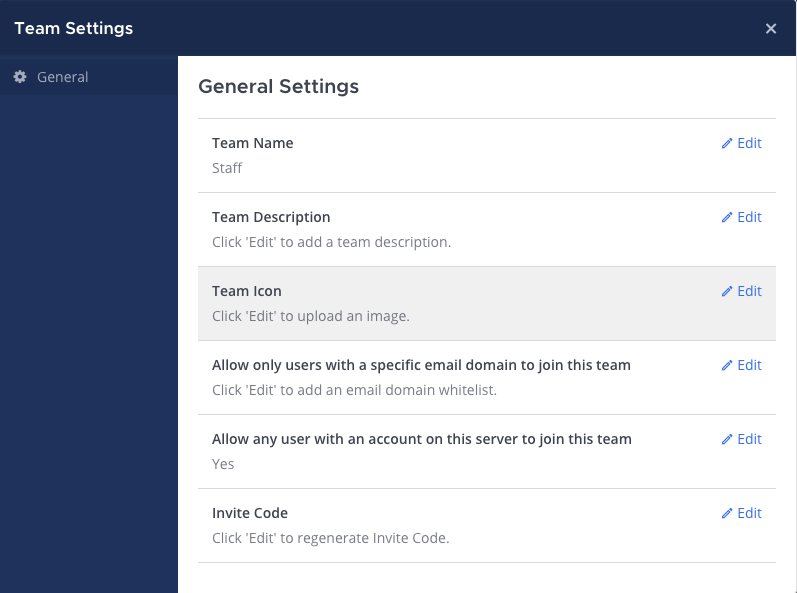
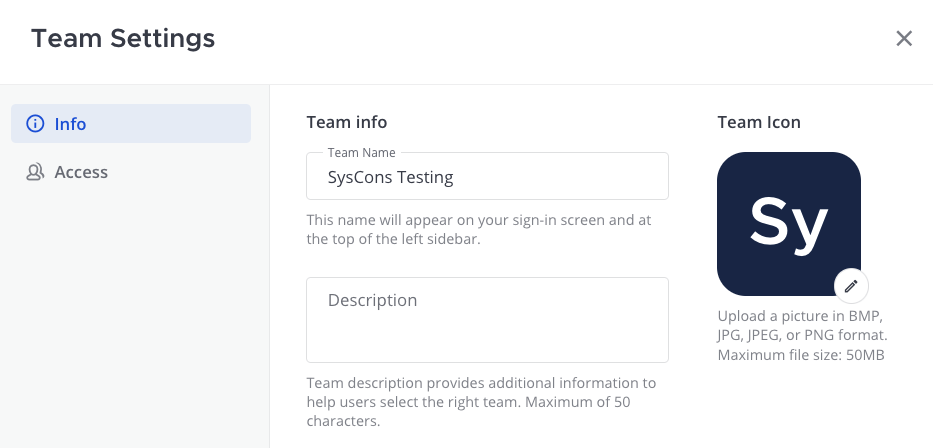
Aligned docs to latest product UI

diff --git a/source/collaborate/team-settings.rst b/source/collaborate/team-settings.rst
@@ -4,72 +4,90 @@ Team settings
 .. include:: ../_static/badges/allplans-cloud-selfhosted.rst
   :start-after: :nosearch:
 
-Team settings enable you to adjust settings applied to a specific team. Using Mattermost in a web browser or the desktop app, select the team name to access additional team options, including **Team Settings**. 
+.. |plus-icon| image:: ../images/plus_F0415.svg
+  :alt: Open menus using the plus icon.
+  :class: theme-icon
+
+Team settings enable system and team administrators to adjust settings applied to a specific team. Using Mattermost in a web browser or the desktop app, select the team name to access **Team Settings**.
 
 .. image:: ../images/team-settings.png
-    :alt: Access team settings from the team name. 
+  :alt: Access team settings from the team name. 
 
-General
--------
+Info settings
+-------------
 
-General settings provide options around how teams are displayed to users. 
+Info settings provide configuration options for how teams are displayed to users.
 
 Team name
 ~~~~~~~~~
 
 Your **Team Name** is displayed on the login screen, and in the top of the channel sidebar for your team. 
 
-Team names can contain any letters, numbers, or symbols, must be 2 - 64 characters in length, and are case-sensitive. `Some unicode characters <https://www.w3.org/TR/unicode-xml/#Charlist>`_ aren't supported in team names. 
+Team names can contain any letters, numbers, or symbols, must be 2 - 64 characters in length, and are case-sensitive. 
+
+.. note::
+  
+  Team names don't support `some unicode characters <https://www.w3.org/TR/unicode-xml/#Charlist>`__. 
 
 Team description
 ~~~~~~~~~~~~~~~~
 
 Your **Team Description** is displayed when viewing the list of teams available to join and in the tooltip when hovering over the team name in the team sidebar.
 
-You can enter a description up to 50 characters in length. Please note that `some unicode characters <https://www.w3.org/TR/unicode-xml/#Charlist>`_ are not supported. 
+You can enter a description up to 50 characters in length. 
+
+.. note::
+  
+  Team descriptions don't support `some unicode characters <https://www.w3.org/TR/unicode-xml/#Charlist>`__. 
 
 Team icon
 ~~~~~~~~~
 
-Your **Team Icon** appears in the team sidebar, and it's visible if you're a member of more than one team. By default, teams display an icon containing the first two letters of the team name. You can customize the team icon.
+A **Team Icon** displays in the team sidebar. By default, the team icon contains the first two letters of the team name. 
+
+To customize the team icon:
 
 1. Select **Team Settings**.
 
-2. Edit the **Team Icon** option.
+2. Select the Team Icon **Edit** option.
 
 .. image:: ../images/edit-team-icon.png
   :alt: Manage the team icon from Team Settings.
 
-3. Upload an icon image in BMP, JPG, or PNG format. We recommend using square images with a solid background color since transparency in PNG icons fills with a white background in the team sidebar. 
+3. Select an icon image in BMP, JPG, or PNG format. We recommend using square images with a solid background color since transparency in PNG icons fills with a white background in the team sidebar.
 
-.. image:: ../images/upload-team-icon.png
-  :alt: Upload a team icon from Team Settings.
+4. Select **Save**.
 
-Removing the team icon resets it to the default icon that contains the first two letters of the team name.
+.. tip::
+  When a team icon is configured, select **Remove image** to reset the team icon to the default icon containing the first two letters of the team name.
 
-Allow only users with a specific email domain to join this team
-~~~~~~~~~~~~~~~~~~~~~~~~~~~~~~~~~~~~~~~~~~~~~~~~~~~~~~~~~~~~~~~
+Access settings
+---------------
 
-Specifying domains in this setting prevents users from joining the team when their email domain is not on the list. Only users that have an email domain matching the defined domains may join the team.
+Access settings enable the ability to control who can join the team.
 
-Users without a matching domain on the team prior to the domain being specified will not be removed after the domain is added. For servers with email authentication **System Console > Authentication > Email > Require Email Verification** must be set to **true** for domain restrictions to be effective.
 
-Allow anyone to join this team
-~~~~~~~~~~~~~~~~~~~~~~~~~~~~~~
+Users with a specific email domain
+~~~~~~~~~~~~~~~~~~~~~~~~~~~~~~~~~~~
 
-After a user logs in to the site, they are shown a Team Selection page if they don't belong to a team. Any team with **Allow anyone to join this team** option set to **Yes** will show up on this page under "Teams you can join". 
+System and team administrators can limit who can join the team based on their email domain. Enable this option to specify approved email domains. Separate multiple email domains using spaces, commas, pressing :kbd:`Tab`, or pressing :kbd:`Enter`. 
 
-A user can access the Team Selection page by also clicking the "+" icon at the bottom of their team sidebar or from the **Main Menu > Join Another Team**.
+When enabled, only users that have an email domain from the approved domain list is able to join the team. Team members who joined prior to approved domains being specified won't be removed from the team once approved email domains are configured and enforced.
+
+.. important::
+
+  Mattermost deployments using :ref:`email authentication <configure/authentication-configuration-settings:enable sign-in with email>` must also enable the :ref:`require email verification configuration setting <configure/authentication-configuration-settings:require email verification>` for domain restrictions to be effective.
+
+Users on this server
+~~~~~~~~~~~~~~~~~~~~~
+
+System and team administrators can include the team in a list of teams to join for new Mattermost users who aren't yet members of a team. Enable this option to allow any user with a Mattermost account on this instance to join this team from the **Teams you can join** page.
+
+.. tip::
+  
+  When you enable this option, users looking for more teams to join will also see this team in the list when they select the |plus-icon| icon in the team sidebar.
 
 Invite code
 ~~~~~~~~~~~
 
-The **Invite Code** is used as part of the URL in the team invitation link retrieved when you select your team name and then choose **Invite people**.
-
-Import
-------
-
-Import from Slack
-~~~~~~~~~~~~~~~~~
-
-This feature has been deprecated. See our :doc:`Migration Guide </onboard/migrating-to-mattermost>` for details on migrating to Mattermost from other solutions, including :doc:`Slack </onboard/migrate-from-slack>`. 
+The **Invite Code** is used as part of the URL in team invitation links. Select **Regenerate** to create a new invitation link and invalidate any previous link.
